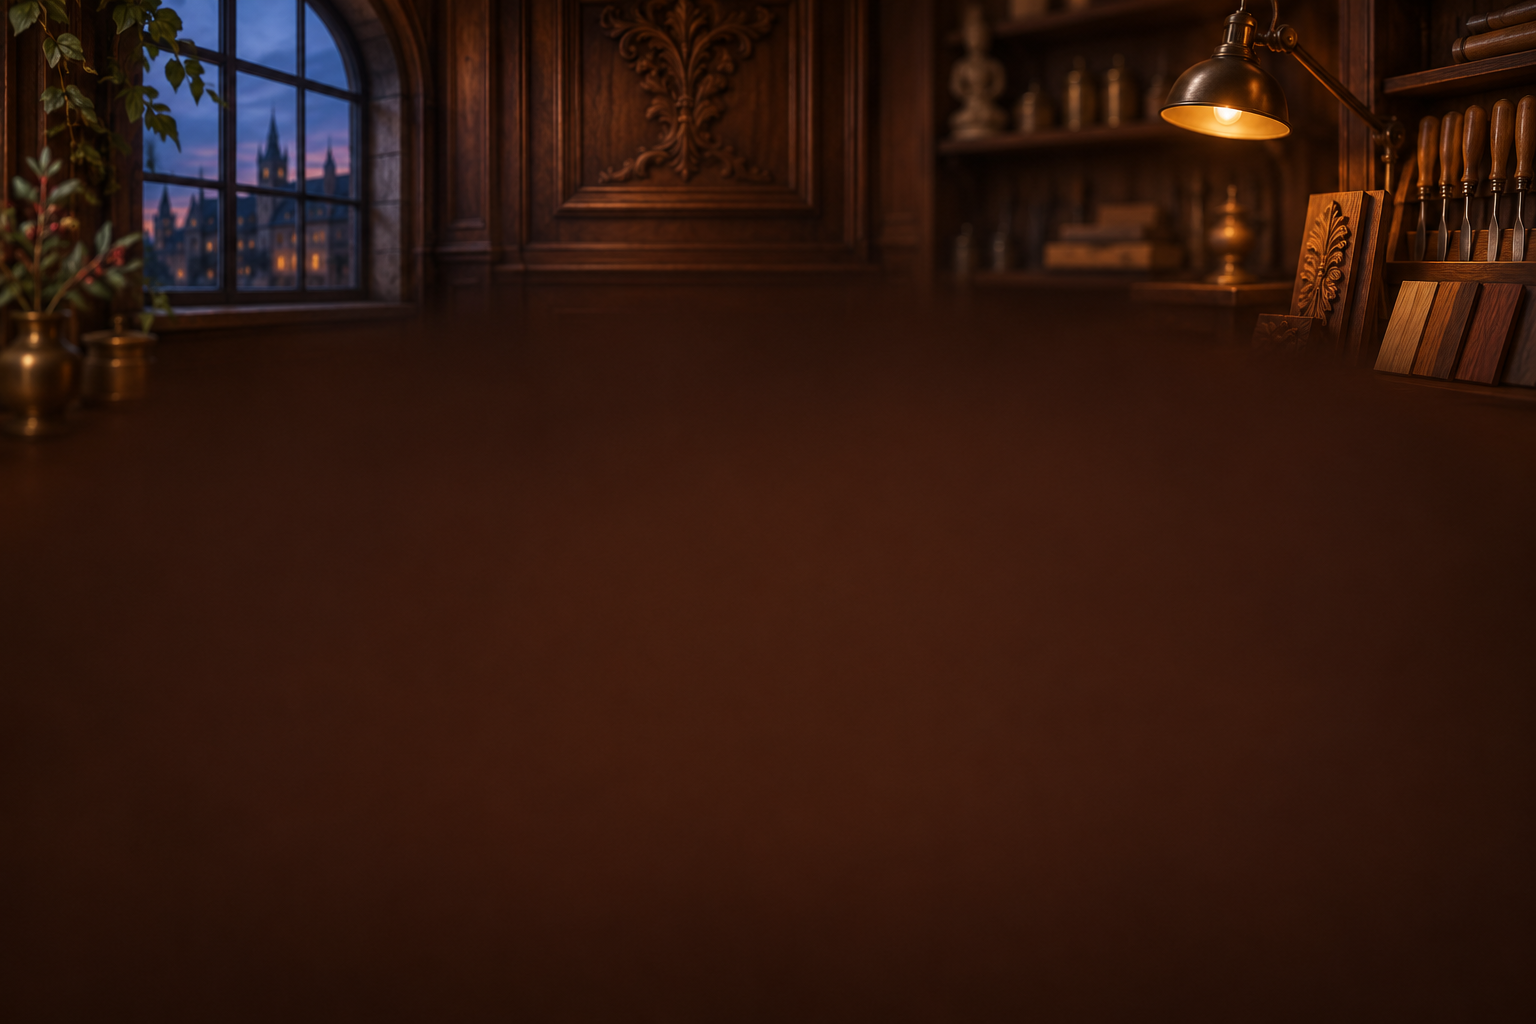
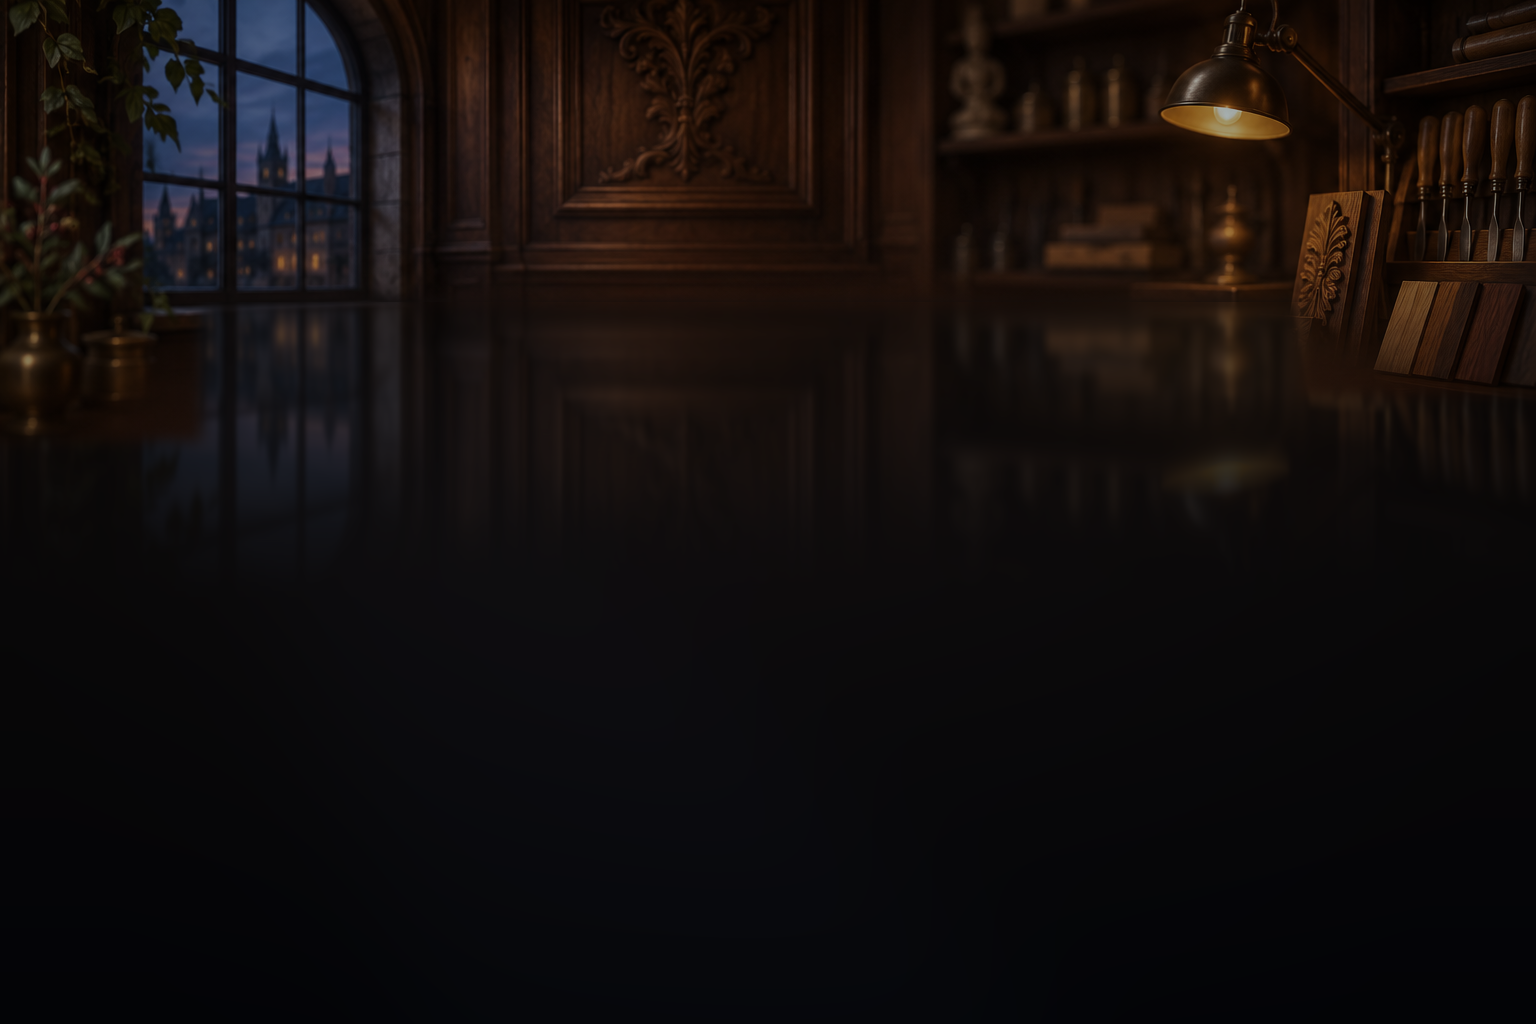
Give Midnight Atelier a reflective tabletop backdrop
The atelier scene ended in a hard horizontal line over a flat, muddy
red-brown wash, which looked weak next to the other sets. Mirror the
room in a glossy walnut tabletop that fades into ink-blue darkness under
the board, keep the side props intact, and cool the grade toward a
midnight palette.

diff --git a/share/scenes/PROMPTS.md b/share/scenes/PROMPTS.md
@@ -14,6 +14,8 @@ Use case: stylized-concept. Asset: background texture behind a real-time 3D ches
 
 Use case: stylized-concept. A cinematic wide 3:2 background behind a real-time chessboard: an old European woodworker’s atelier at dusk, walnut paneling, an arched window with blue evening light, an amber lamp and blurred tools around the outer edges. Warm brown and muted brass, softly defocused miniature photography. Keep the central and lower two thirds quiet and dark for the separately rendered board. No board, pieces, people, text or logos.
 
+The generated image ended in a hard line a third of the way down over a flat red-brown wash, so it was reworked by hand: the room now stands on a glossy walnut tabletop that mirrors the window, carved panel, lamp and shelves and fades into ink-blue darkness under the board, with the palette cooled toward midnight.
+
 ## Candy
 
 Use case: stylized-concept. A wide 3:2 confectionery garden in pastel coral, cream and lilac, with distant meringue hills, candy-glass arches, curled sugar ribbons and delicate flowers around the upper and outer edges. Warm morning light, handmade miniature diorama photography and soft depth of field. Keep the central and lower two thirds quiet pale rose and mauve for the separately rendered board. No board, pieces, people, characters, text or logos.
